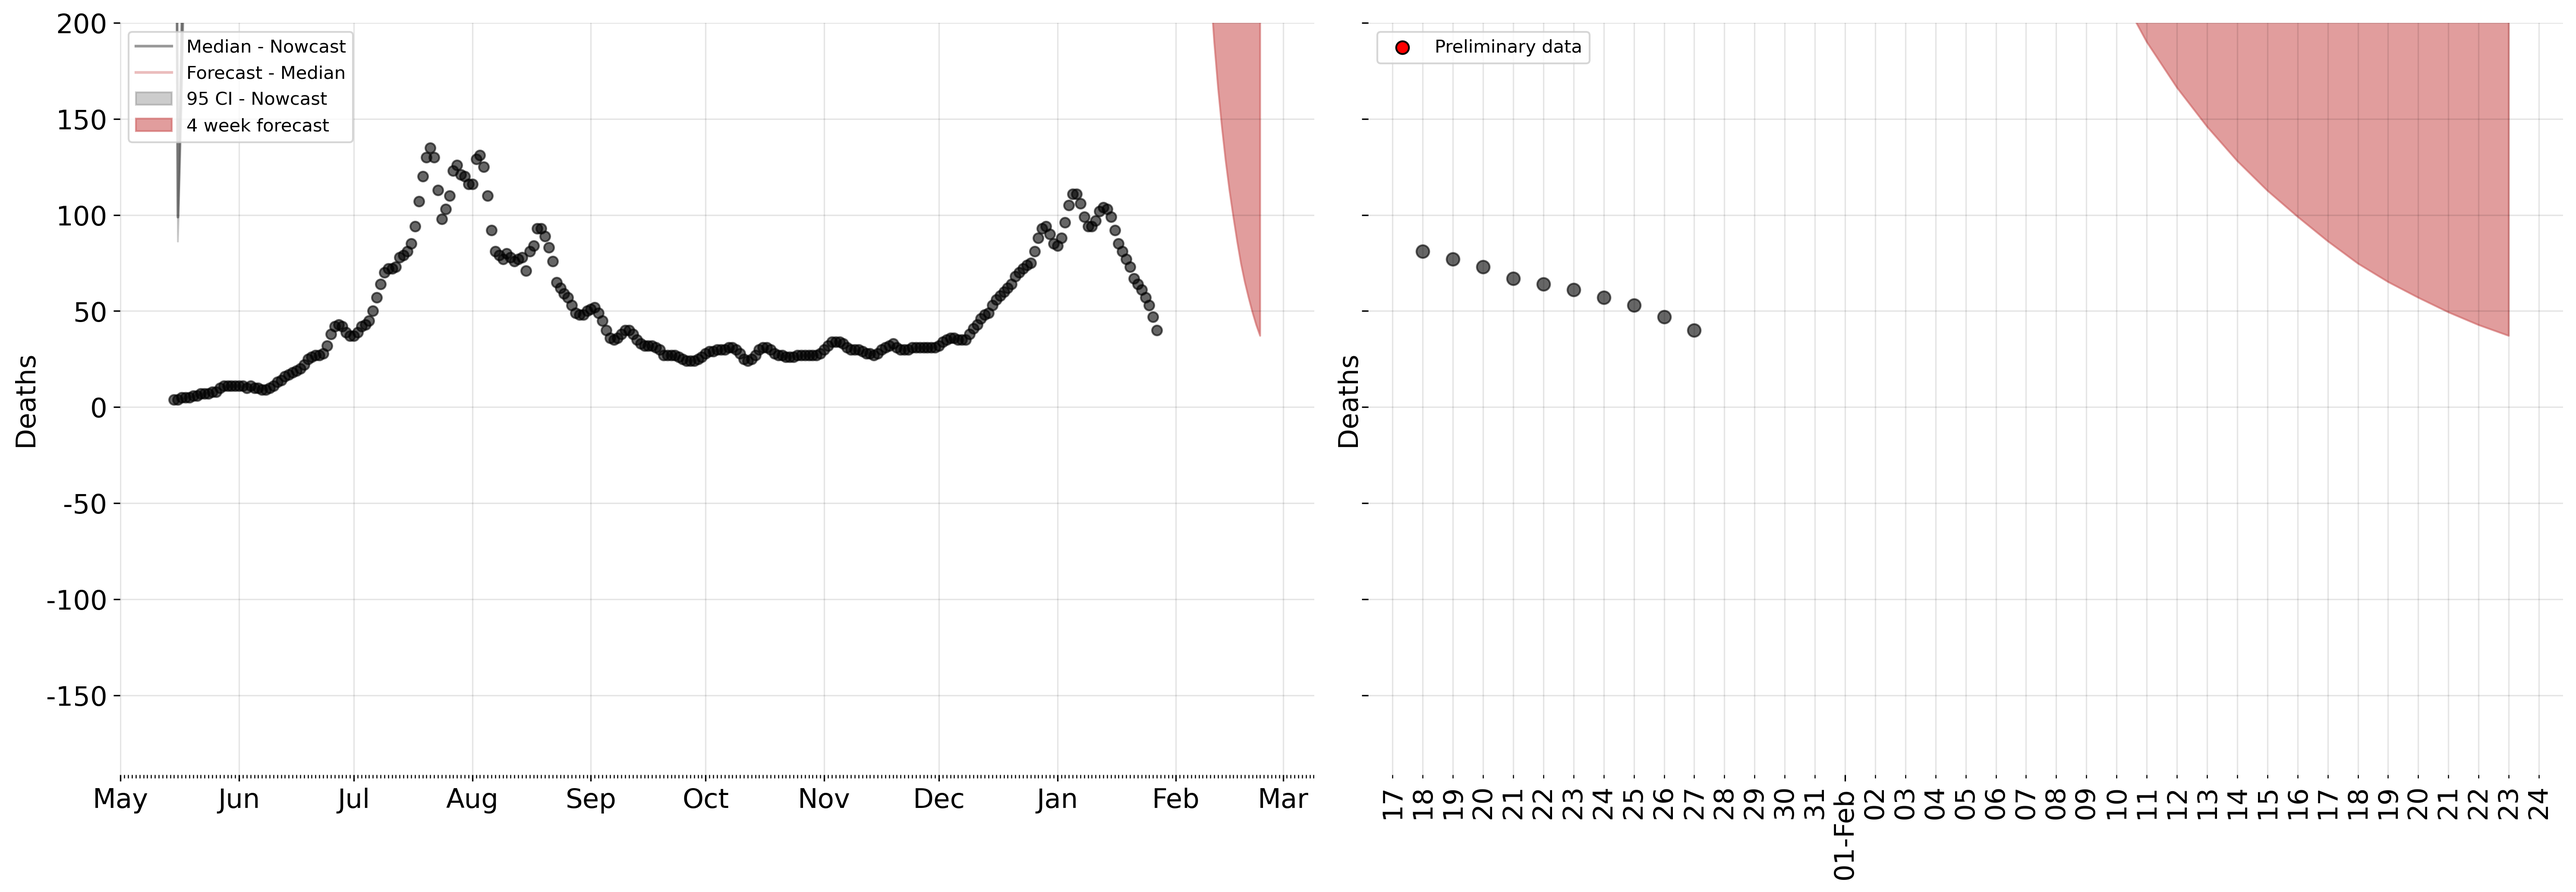
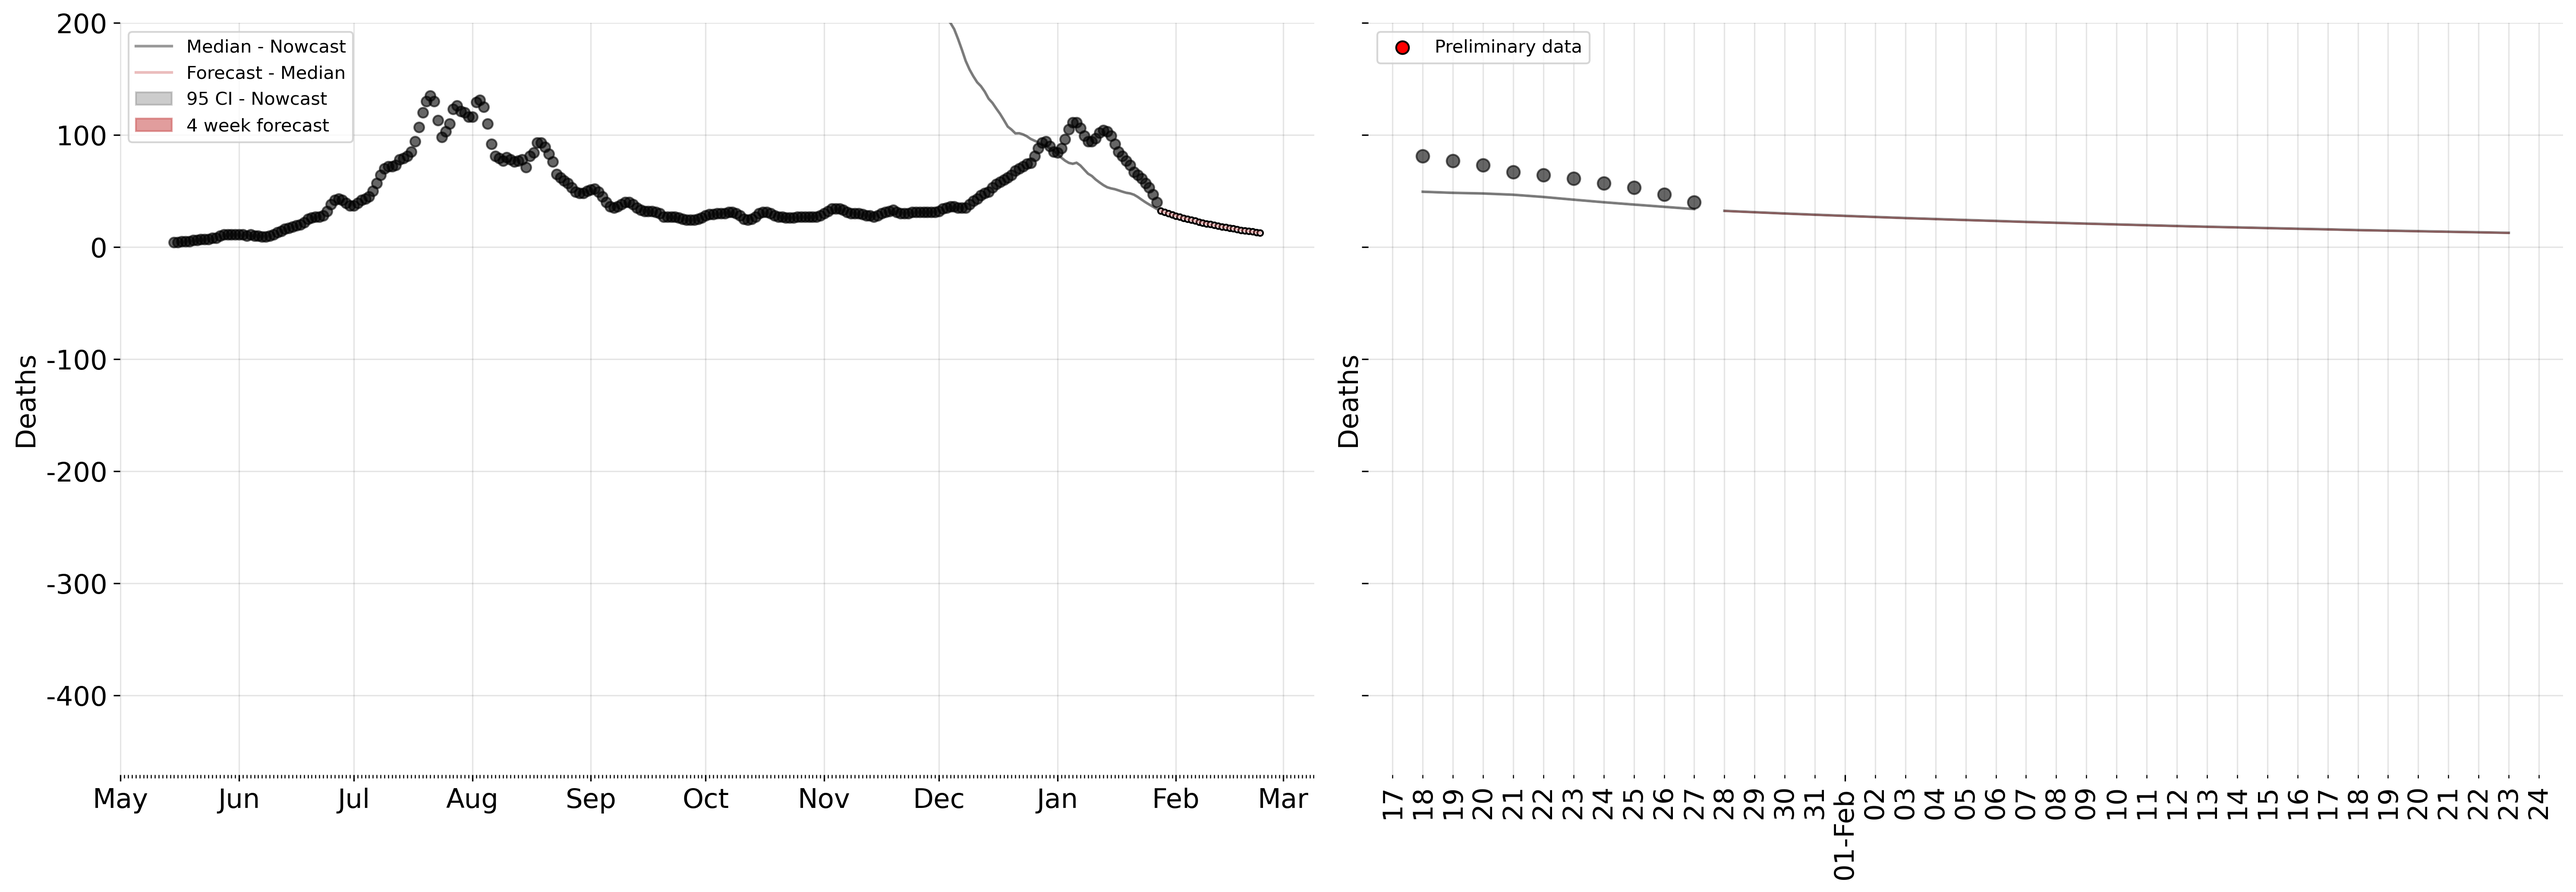
adding estimates

diff --git a/models/seirhd_model.py b/models/seirhd_model.py
@@ -448,13 +448,13 @@ class SEIRHD(SEIRHDBase):
         #I0 = numpyro.sample("I0", dist.Uniform(0, 300))
         #E0 = numpyro.sample("E0", dist.Uniform(0, 300*0.1))
         #H0 = numpyro.sample("H0", dist.Uniform(0, 300*0.1))
-        #D0 = numpyro.sample("D0", dist.Uniform(0, 300*0.1))
+        D0 = numpyro.sample("D0", dist.Uniform(0, 30))
 
         # Sample initial number of infected individuals
-        I0 = numpyro.sample("I0", dist.Uniform(0, 0.02*N))
-        E0 = numpyro.sample("E0", dist.Uniform(0, 0.02*N))
-        H0 = numpyro.sample("H0", dist.Uniform(0, 0.02*N))
-        D0 = numpyro.sample("D0", dist.Uniform(0, 0.02*N))
+        I0 = numpyro.sample("I0", dist.Uniform(0, 1000))
+        E0 = numpyro.sample("E0", dist.Uniform(0, 3000))
+        H0 = numpyro.sample("H0", dist.Uniform(0, 2000))
+        #D0 = numpyro.sample("D0", dist.Uniform(0, 0.02*N))
 
 
         # Sample dispersion parameters around specified values
@@ -498,7 +498,7 @@ class SEIRHD(SEIRHDBase):
                                     dist.Beta(0.01 * 100, (1-0.01) * 100))
 
         hosp_prob = numpyro.sample("hosp_prob",
-                                    dist.Beta(0.01 * 100, (1-0.01) * 100))
+                                    dist.Beta(0.05 * 100, (1-0.01) * 100))
                                     #dist.Beta(0.02 * 1000, (1-0.02) * 1000))
 
         death_rate = numpyro.sample("death_rate",
